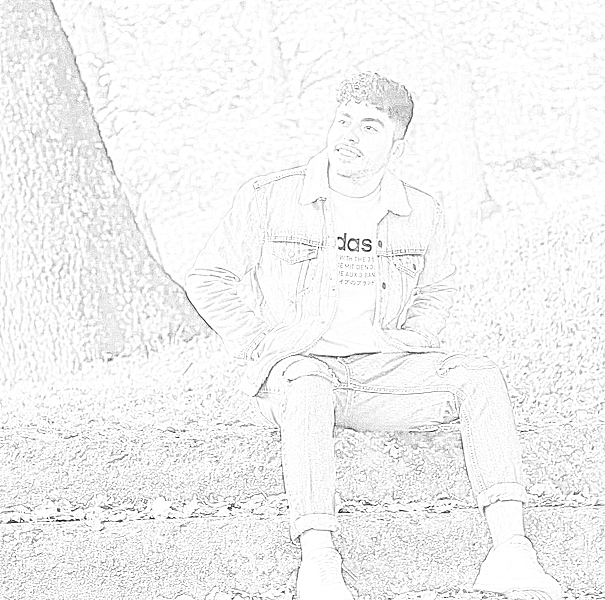
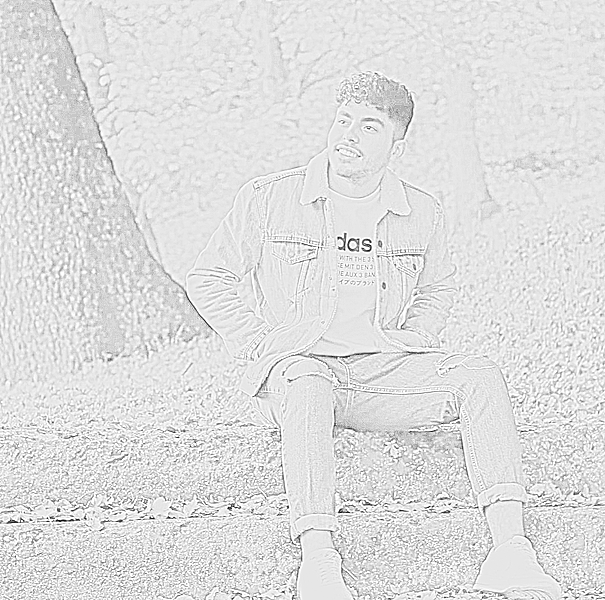
Add files via upload

diff --git a/Function/Process_Image.py b/Function/Process_Image.py
@@ -1,6 +1,7 @@
 import numpy as np
 import PIL
 import math
+from scipy import ndimage
 #Converto in immagine bianco e nero
 
 def RGB_TO_GRAY(Image):
@@ -97,10 +98,81 @@ def Image_Division(Image1,Image2,scale):
     Final_Image = np.zeros((Image1.shape[0],Image1.shape[1]))
     for x in range(0,Image1.shape[0]):
         for y in range(0,Image1.shape[1]):
-            Final_Image[x,y] = Image1[x,y] * 255 / Image2[x,y]
+            Final_Image[x,y] = Image1[x,y] * 230 / Image2[x,y]
     return Final_Image
 
-#Funzioni per colorize sobel            
+#Funzioni per colorize sobel   
+
+def sobel_filters(image,direction):
+    
+    if (direction == "x"):
+        Gx_Filter = np.array([[-1,0,1],[-2,0,2],[-1,0,1]])
+        Ret_Image = ndimage.convolve(image,Gx_Filter)
+    elif (direction == "y"):
+         Gy_Filter = np.array([[-1,-2,-1],[0,0,0],[1,2,1]])
+         Ret_Image = ndimage.convolve(image,Gy_Filter)
+
+    return Ret_Image
+
+
+def Normalize(Image):
+    
+    Nimg = Image / np.max(Image)
+    
+    return Nimg
+    
+def NonMaxSup(Mag, Grad):
+    img = np.zeros(Mag.shape)
+    for i in range(1, int(Mag.shape[0]) - 1):
+        for j in range(1, int(Mag.shape[1]) - 1):
+            if((Grad[i,j] >= -22.5 and Grad[i,j] <= 22.5) or (Grad[i,j] <= -157.5 and Grad[i,j] >= 157.5)):
+                if((Mag[i,j] > Mag[i,j+1]) and (Mag[i,j] > Mag[i,j-1])):
+                    img[i,j] = Mag[i,j]
+                else:
+                    img[i,j] = 0
+            if((Grad[i,j] >= 22.5 and Grad[i,j] <= 67.5) or (Grad[i,j] <= -112.5 and Grad[i,j] >= -157.5)):
+                if((Mag[i,j] > Mag[i+1,j+1]) and (Mag[i,j] > Mag[i-1,j-1])):
+                    img[i,j] = Mag[i,j]
+                else:
+                    img[i,j] = 0
+            if((Grad[i,j] >= 67.5 and Grad[i,j] <= 112.5) or (Grad[i,j] <= -67.5 and Grad[i,j] >= -112.5)):
+                if((Mag[i,j] > Mag[i+1,j]) and (Mag[i,j] > Mag[i-1,j])):
+                    img[i,j] = Mag[i,j]
+                else:
+                    img[i,j] = 0
+            if((Grad[i,j] >= 112.5 and Grad[i,j] <= 157.5) or (Grad[i,j] <= -22.5 and Grad[i,j] >= -67.5)):
+                if((Mag[i,j] > Mag[i+1,j-1]) and (Mag[i,j] > Mag[i-1,j+1])):
+                    img[i,j] = Mag[i,j]
+                else:
+                    img[i,j] = 0
+
+    return img
+    
+
+def thresholding(img,low,high,strong,weak):
+    Ret_Image = np.zeros(img.shape)
+    for x in range(0,img.shape[0]):
+        for y in range(0,img.shape[1]):
+            
+            if img[x,y] >= high:
+                Ret_Image[x,y] = strong
+            elif img[x,y] < high and img[x,y] >= low:
+                Ret_Image[x,y] = weak
+            else:
+                Ret_Image[x,y] = 0
+    return Ret_Image
+
+ 
+
+#def make_bilateral_filter(img)
+           
+    
+# def bilateral_filter(img,sigma1,sigma2):
+#     Filtro = Create_Gaussian_Filter(sigma1)
+    
+#     Ret_Image = np.zeros(img.shape)
+    
+         
 
     
     

diff --git a/Esempio_edges.py b/Esempio_edges.py
@@ -1,6 +1,8 @@
 from Function.load_save_image import *
 from Function.Process_Image import *
 import cv2
+import numpy as np
+from scipy import ndimage
 
 image = load_image("Data/Input/Photo1.jpg")
 
@@ -11,13 +13,24 @@ channels = image.shape[2]
 gray = RGB_TO_GRAY(image)
 
 Filter = Create_Gaussian_Filter(1)
-blurred_gray = convolve_Image(gray,Filter)
+blurred_gray = ndimage.convolve(gray,Filter)
 
-img_n = cv2.normalize(blurred_gray, dst=None, alpha=0, beta=255, norm_type=cv2.NORM_MINMAX, dtype=cv2.CV_8U)
-edges = cv2.Canny(img_n,100,200)
+gx = sobel_filters(blurred_gray, 'x')
+gx = Normalize(gx)
+gy = sobel_filters(blurred_gray, 'y')
+gy = Normalize(gy)
 
+Mag = np.hypot(gx,gy)
 
-color = cv2.bilateralFilter(image,9,250,250)
-cartoon = cv2.bitwise_and(color,color,mask=edges)
+Mag = Mag * 255
 
-save_gray_image(cartoon, "Y")
+Grad = np.degrees(np.arctan2(gy,gx))
+
+#Non Maximum supression
+img_con_Nms = NonMaxSup(Mag, Grad)
+
+#THresHolding
+
+Thresh_img = thresholding(img_con_Nms,8, 43, 255, 50)
+
+save_gray_image(Thresh_img, "Thresh")
